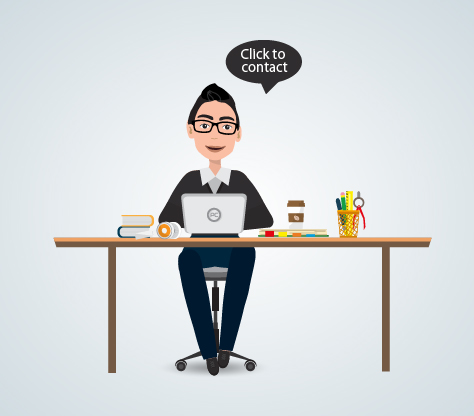
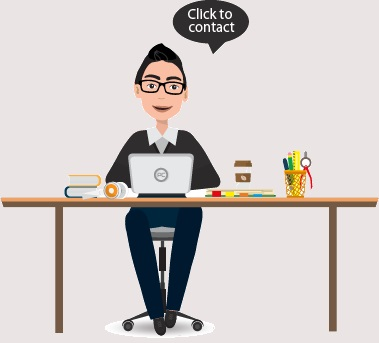
changed background color and positioning of contact photo

diff --git a/public/style.css b/public/style.css
@@ -82,7 +82,7 @@ li {
 #contact {
 	width: 36.6vw;
 	margin-left: 29.3vw;
-	margin-top: 12.8vh;
+	margin-top: 6vh;
 }
 
 
